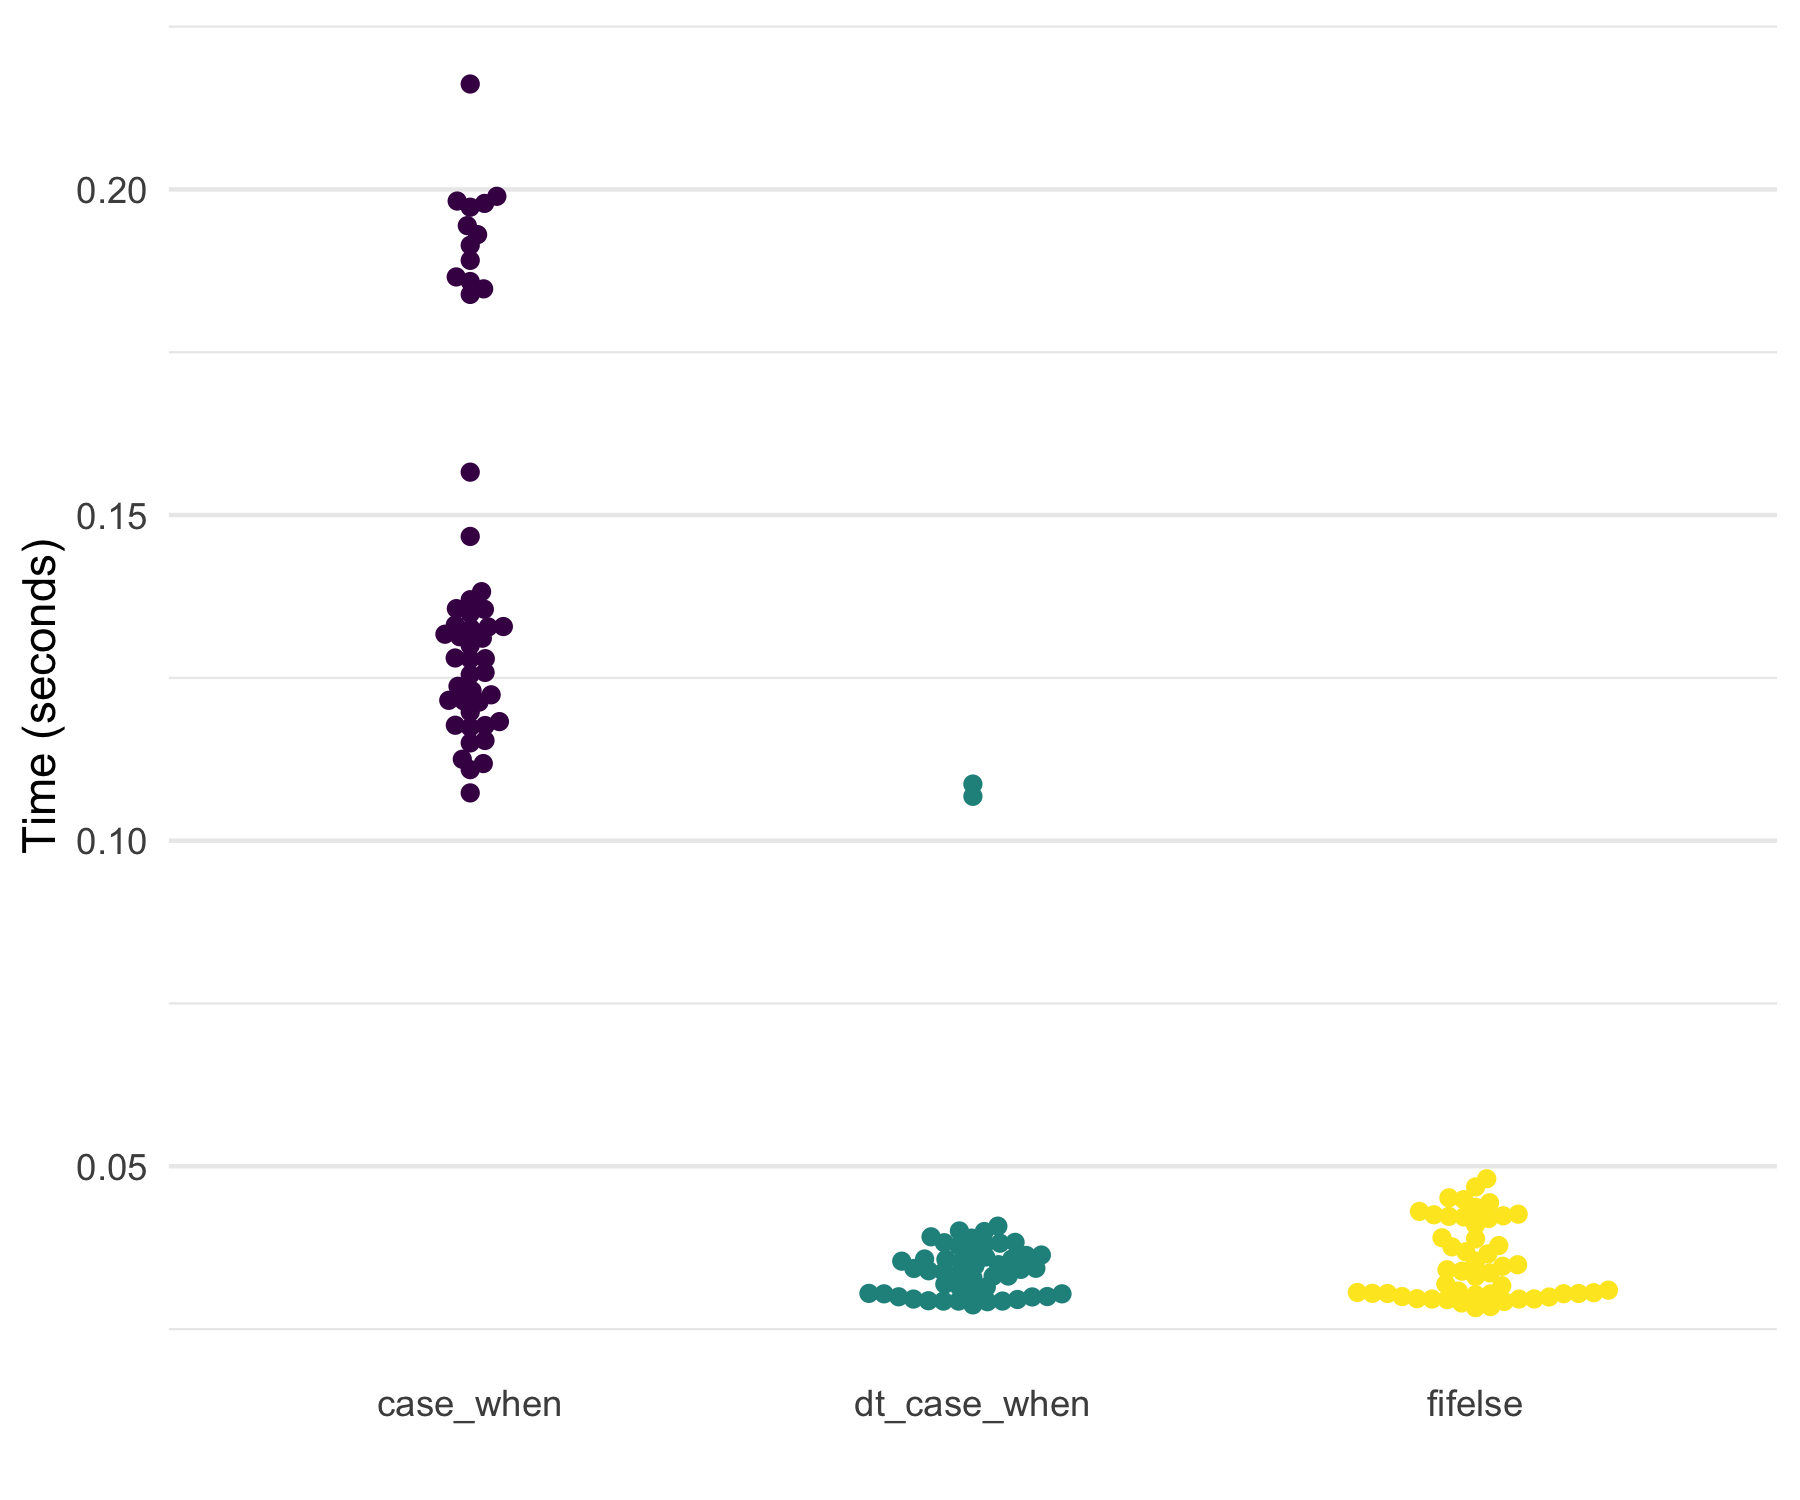
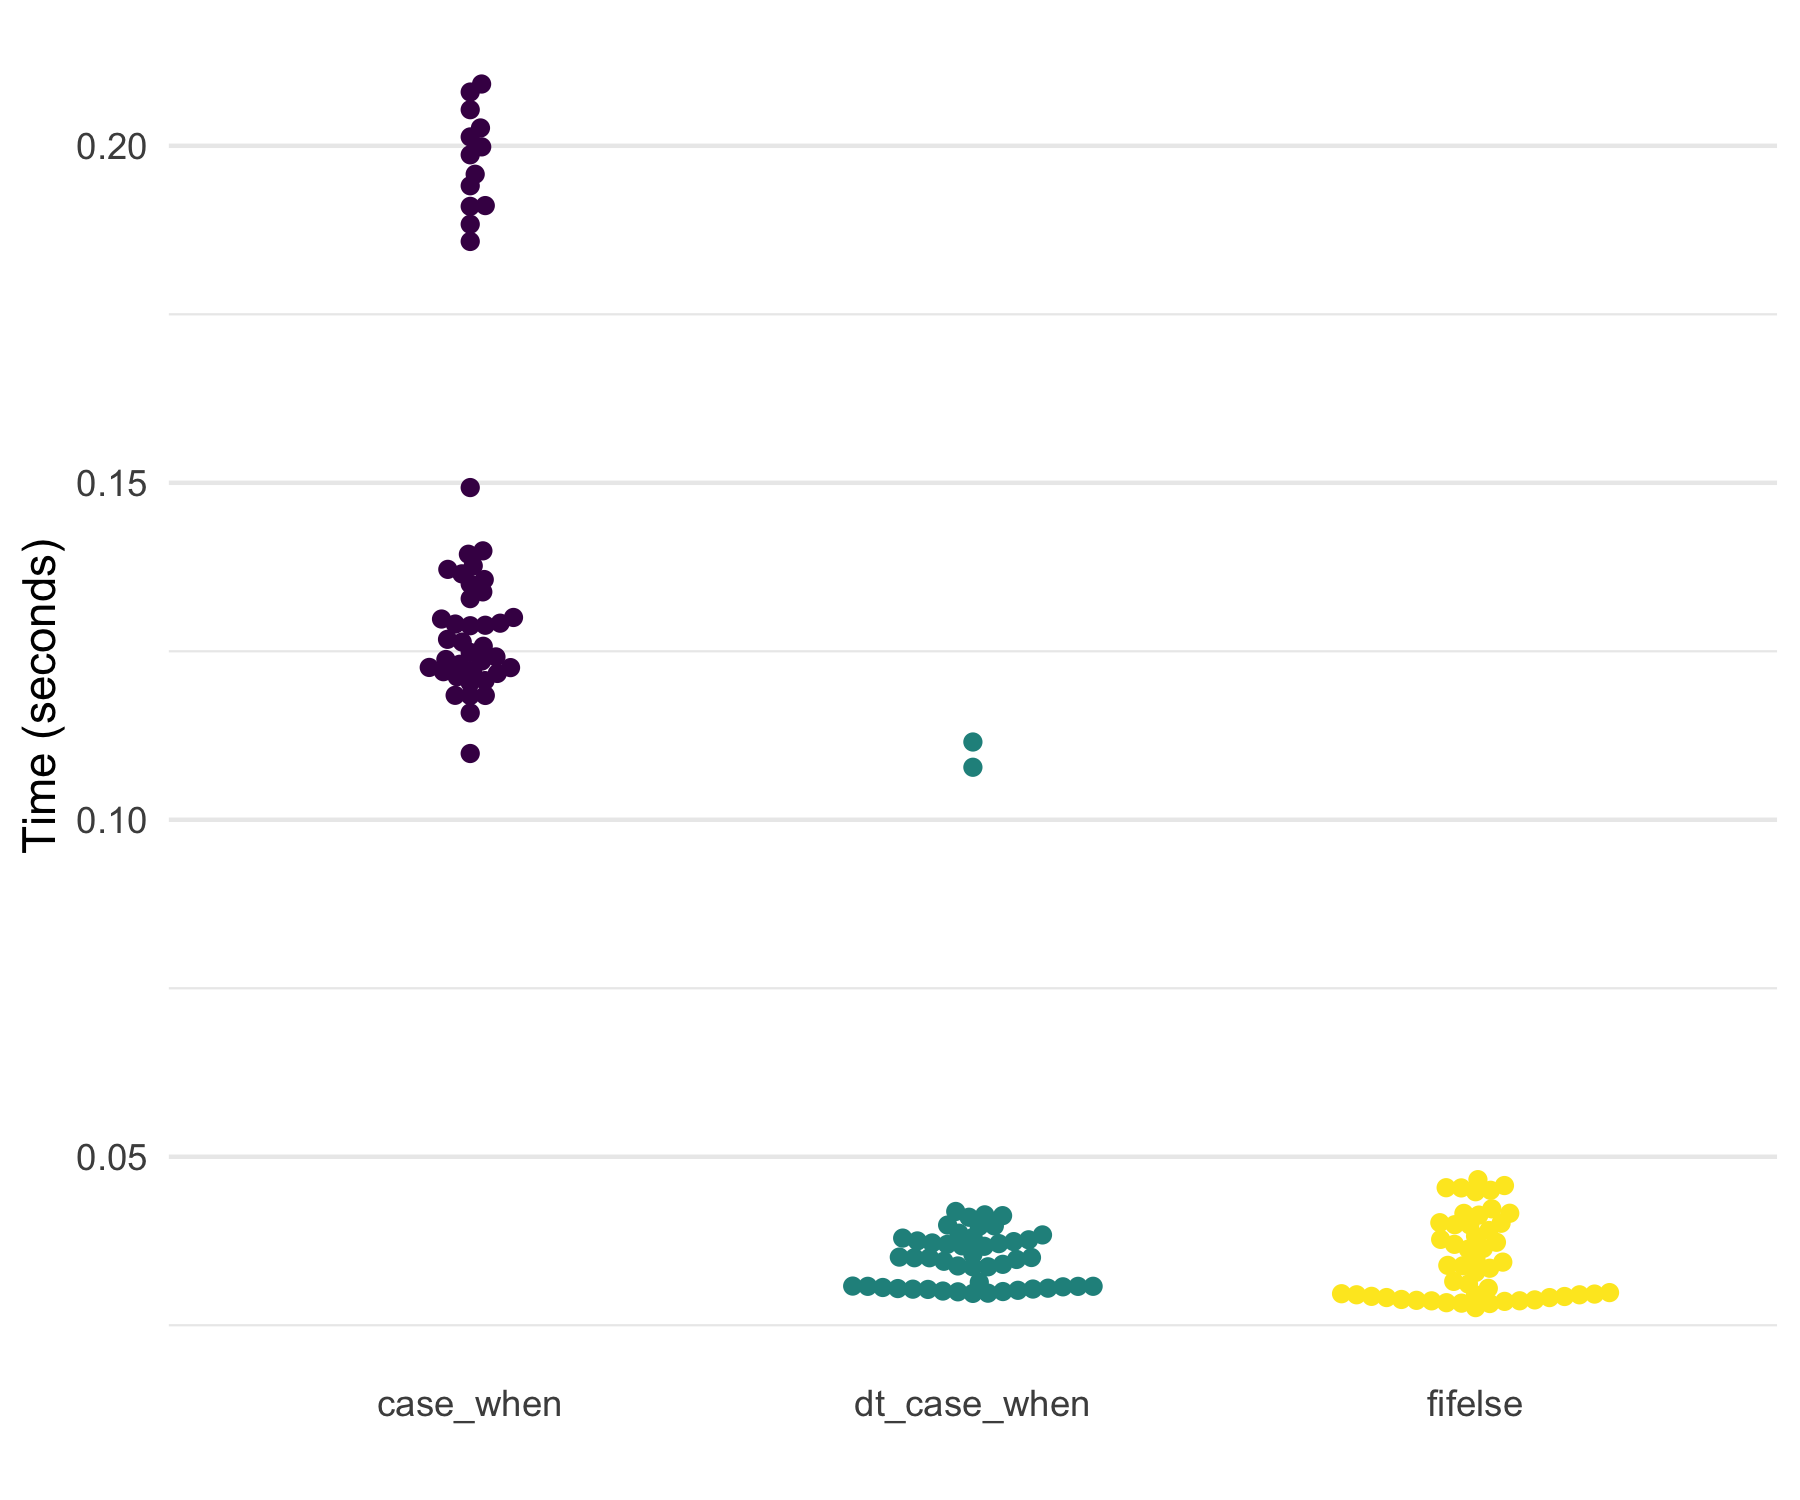
updated readme

diff --git a/README.md b/README.md
@@ -1,7 +1,7 @@
 
 <!-- README.md is generated from README.Rmd. Please edit that file -->
 
-# `tidyfast v0.1.2` <img src=".graphics/tidyfast_hex.png" align="right" width="30%" height="30%" />
+# `tidyfast v0.1.4` <img src=".graphics/tidyfast_hex.png" align="right" width="30%" height="30%" />
 
 <!-- badges: start -->
 
@@ -16,7 +16,8 @@ some `tidyr` and `dplyr` functions using `data.table` under the hood.
 Each have the prefix of `dt_` to allow for autocomplete in IDEs such as
 RStudio. These should compliment some of the current functionality in
 `dtplyr` (but notably does not use the `lazy_dt()` framework of
-`dtplyr`).
+`dtplyr`). This package imports `data.table` and `Rcpp` (no other
+dependencies).
 
 The current functions include:
 
@@ -197,9 +198,9 @@ built on `data.table::fifelse()`.
     #> # A tibble: 3 x 3
     #>   expression     median mem_alloc
     #>   <chr>        <bch:tm> <bch:byt>
-    #> 1 case_when     131.5ms   148.8MB
-    #> 2 dt_case_when   34.2ms    34.3MB
-    #> 3 fifelse        33.8ms    34.3MB
+    #> 1 case_when     129.5ms   148.8MB
+    #> 2 dt_case_when     35ms    34.3MB
+    #> 3 fifelse        33.6ms    34.3MB
 
 ## Fill
 
@@ -307,13 +308,44 @@ marks3 <-
     #> # A tibble: 2 x 3
     #>   expression                                    median mem_alloc
     #>   <bch:expr>                                  <bch:tm> <bch:byt>
-    #> 1 tidyr::fill(dplyr::group_by(df3, id), x, y)   64.9ms    30.9MB
-    #> 2 tidyfast::dt_fill(dt3, x, y, id = list(id))   16.6ms    29.1MB
+    #> 1 tidyr::fill(dplyr::group_by(df3, id), x, y)   64.7ms    30.9MB
+    #> 2 tidyfast::dt_fill(dt3, x, y, id = list(id))   16.9ms    29.1MB
 
 ## Separate
 
-The `dt_separate()` function is still under heavy development and is
-therefore not recommended for use yet.
+The `dt_separate()` function is still under heavy development. Its
+behavior is similar to `tidyr::separate()` but is lacking some
+functionality currently. For example, `into` needs to be supplied the
+maximum number of possible columns to separate.
+
+``` r
+dt_separate(data.table(col = "A.B.C"), col, into = c("A", "B"))
+#> Error in `[.data.table`(dt, , eval(split_it)) : 
+#>   Supplied 2 columns to be assigned 3 items. Please see NEWS for v1.12.2.
+```
+
+For current functionality, consider the following example.
+
+``` r
+dt_to_split <- data.table(
+  x = paste(letters, LETTERS, sep = ".")
+)
+
+dt_separate(dt_to_split, x, into = c("lower", "upper"))
+```
+
+Testing with a 4 MB data set with one variable that has columns of “A.B”
+repeatedly, shows that `dt_separate()` is fast but less memory efficient
+than `tidyr::separate()`.
+
+<img src="man/figures/README-unnamed-chunk-15-1.png" width="70%" />
+
+    #> # A tibble: 3 x 3
+    #>   expression            median mem_alloc
+    #>   <chr>               <bch:tm> <bch:byt>
+    #> 1 separate               333ms    11.6MB
+    #> 2 dt_separate            114ms    30.6MB
+    #> 3 dt_separate-mutable    109ms    26.7MB
 
 ## Note
 
